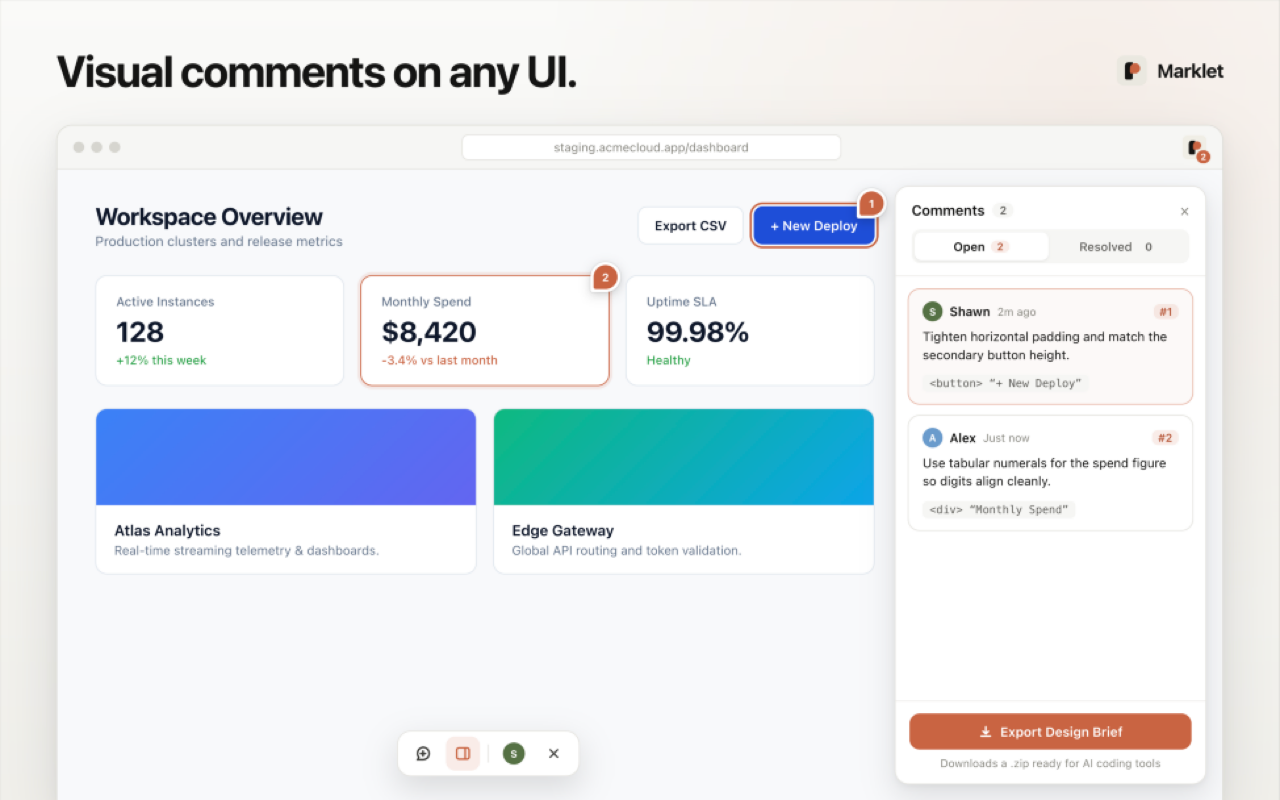
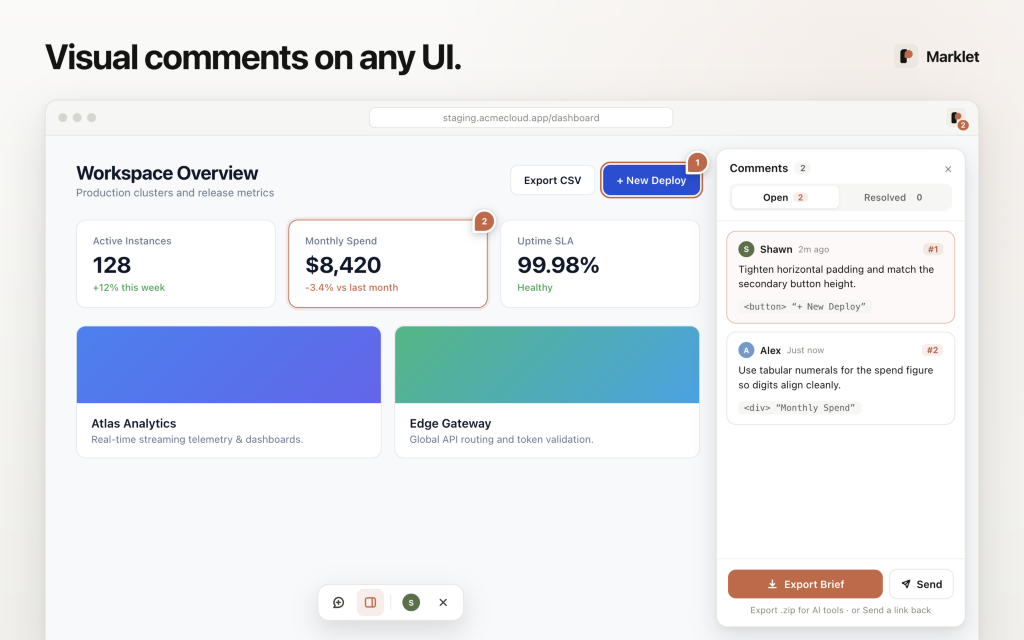
docs: refresh v0.2.0 showcase screenshots with Send & Microsoft/Google sign-in

diff --git a/demo/store-assets.html b/demo/store-assets.html
@@ -758,11 +758,17 @@
               </div>
             </div>
             <div class="m-sb-foot">
-              <div class="m-brief-btn">
-                <svg width="15" height="15" viewBox="0 0 16 16" fill="none" stroke="currentColor" stroke-width="1.8" stroke-linecap="round" stroke-linejoin="round"><path d="M8 2.75v7.5M5 7.5l3 3 3-3M3 12.75h10"/></svg>
-                <span>Export Design Brief</span>
+              <div style="display:flex;gap:8px;align-items:center;">
+                <div class="m-brief-btn" style="flex:1;">
+                  <svg width="15" height="15" viewBox="0 0 16 16" fill="none" stroke="currentColor" stroke-width="1.8" stroke-linecap="round" stroke-linejoin="round"><path d="M8 2.75v7.5M5 7.5l3 3 3-3M3 12.75h10"/></svg>
+                  <span>Export Brief</span>
+                </div>
+                <div style="height:38px;padding:0 13px;border-radius:10px;border:1px solid #e6e5e0;background:#fff;color:#141413;font-size:13px;font-weight:600;display:inline-flex;align-items:center;gap:6px;">
+                  <svg width="14" height="14" viewBox="0 0 16 16" fill="none" stroke="currentColor" stroke-width="1.6" stroke-linecap="round" stroke-linejoin="round"><path d="M13.5 2.5 7.25 8.75M13.5 2.5l-4 11-2.25-4.75L2.5 6.5l11-4Z"/></svg>
+                  <span>Send</span>
+                </div>
               </div>
-              <p class="m-brief-note">Downloads a .zip ready for AI coding tools</p>
+              <p class="m-brief-note">Export .zip for AI tools · or Send a link back</p>
             </div>
           </aside>
         </div>
@@ -841,14 +847,30 @@
               <path d="M56 54C56 41.85 65.85 32 78 32C90.15 32 100 41.85 100 54C100 66.15 90.15 76 78 76H62C58.69 76 56 73.31 56 70V54Z" fill="#C96442" />
             </svg>
             <strong style="font-size:15px;">Marklet</strong>
-            <span class="pm-ver">v0.1.0</span>
+            <span class="pm-ver">v0.2.0</span>
             <span style="flex:1"></span>
-            <span style="font-size:12px;color:#5e5d59;">Feedback ↗ &nbsp; ···</span>
+            <span style="font-size:13px;color:#5e5d59;display:inline-flex;align-items:center;gap:10px;">
+              <svg width="15" height="15" viewBox="0 0 16 16" fill="none" stroke="currentColor" stroke-width="1.5" stroke-linecap="round" stroke-linejoin="round"><circle cx="8" cy="8" r="6"/><path d="M6.25 6.35a1.85 1.85 0 0 1 3.55.7c0 1.15-1.8 1.4-1.8 2.45"/><circle cx="8" cy="11.65" r="0.6" fill="currentColor" stroke="none"/></svg>
+              <span>···</span>
+            </span>
           </div>
           <div class="pm-sec">
             <div class="pm-title">Workspace Overview · Acme Cloud</div>
             <div class="pm-host">https://staging.acmecloud.app</div>
             <div class="pm-btn">Start Review</div>
+          </div>
+          <div class="pm-sec" style="border-top:1px solid #f0efeb;padding-top:14px;padding-bottom:14px;">
+            <div style="display:grid;grid-template-columns:1fr 1fr;gap:8px;">
+              <div style="height:36px;border-radius:10px;border:1px solid #e6e5e0;display:inline-flex;align-items:center;justify-content:center;gap:7px;font-size:12.5px;font-weight:500;">
+                <svg width="13" height="13" viewBox="0 0 21 21" fill="none"><rect x="1" y="1" width="9" height="9" fill="#F25022"/><rect x="11" y="1" width="9" height="9" fill="#7FBA00"/><rect x="1" y="11" width="9" height="9" fill="#00A4EF"/><rect x="11" y="11" width="9" height="9" fill="#FFB900"/></svg>
+                <span>Microsoft</span>
+              </div>
+              <div style="height:36px;border-radius:10px;border:1px solid #e6e5e0;display:inline-flex;align-items:center;justify-content:center;gap:7px;font-size:12.5px;font-weight:500;">
+                <svg width="13" height="13" viewBox="0 0 18 18" fill="none"><path d="M17.64 9.2c0-.64-.06-1.25-.16-1.84H9v3.48h4.84a4.14 4.14 0 0 1-1.8 2.72v2.26h2.92c1.7-1.57 2.68-3.88 2.68-6.62Z" fill="#4285F4"/><path d="M9 18c2.43 0 4.47-.8 5.96-2.18l-2.92-2.26c-.8.54-1.83.86-3.04.86-2.34 0-4.33-1.58-5.04-3.71H.96v2.33A9 9 0 0 0 9 18Z" fill="#34A853"/><path d="M3.96 10.71A5.41 5.41 0 0 1 3.68 9c0-.59.1-1.17.28-1.71V4.96H.96A9 9 0 0 0 0 9c0 1.45.35 2.82.96 4.04l3-2.33Z" fill="#FBBC05"/><path d="M9 3.58c1.32 0 2.51.45 3.44 1.35l2.58-2.59C13.46.89 11.43 0 9 0A9 9 0 0 0 .96 4.96l3 2.33C4.67 5.16 6.66 3.58 9 3.58Z" fill="#EA4335"/></svg>
+                <span>Google</span>
+              </div>
+            </div>
+            <div style="margin-top:6px;font-size:11px;color:#87867f;text-align:center;">Sign in to sync your name &amp; avatar (optional)</div>
           </div>
           <div class="pm-foot">
             <span class="pm-dot"></span>
@@ -864,9 +886,12 @@
               <path d="M56 54C56 41.85 65.85 32 78 32C90.15 32 100 41.85 100 54C100 66.15 90.15 76 78 76H62C58.69 76 56 73.31 56 70V54Z" fill="#C96442" />
             </svg>
             <strong style="font-size:15px;">Marklet</strong>
-            <span class="pm-ver">v0.1.0</span>
+            <span class="pm-ver">v0.2.0</span>
             <span style="flex:1"></span>
-            <span style="font-size:12px;color:#a8a8a1;">Feedback ↗ &nbsp; ···</span>
+            <span style="font-size:13px;color:#a8a8a1;display:inline-flex;align-items:center;gap:10px;">
+              <svg width="15" height="15" viewBox="0 0 16 16" fill="none" stroke="currentColor" stroke-width="1.5" stroke-linecap="round" stroke-linejoin="round"><circle cx="8" cy="8" r="6"/><path d="M6.25 6.35a1.85 1.85 0 0 1 3.55.7c0 1.15-1.8 1.4-1.8 2.45"/><circle cx="8" cy="11.65" r="0.6" fill="currentColor" stroke="none"/></svg>
+              <span>···</span>
+            </span>
           </div>
           <div class="pm-sec">
             <div class="pm-title">Workspace Overview · Acme Cloud</div>
@@ -875,7 +900,19 @@
               <span class="pm-chip green"><span style="width:5px;height:5px;border-radius:50%;background:#7fb069;"></span>Reviewing</span>
               <span class="pm-chip open">2 open comments</span>
             </div>
-            <div class="pm-btn stop">Stop Review</div>
+            <div class="pm-btn" style="display:flex;align-items:center;justify-content:center;gap:6px;">
+              <svg width="14" height="14" viewBox="0 0 16 16" fill="none" stroke="currentColor" stroke-width="1.6" stroke-linecap="round" stroke-linejoin="round"><path d="M13.5 2.5 7.25 8.75M13.5 2.5l-4 11-2.25-4.75L2.5 6.5l11-4Z"/></svg>
+              <span>Send 2 comments</span>
+            </div>
+            <div class="pm-btn stop" style="margin-top:8px;height:36px;color:#a8a8a1;">Stop Review</div>
+          </div>
+          <div class="pm-sec" style="border-top:1px solid #2e2e2a;padding-top:12px;padding-bottom:12px;display:flex;align-items:center;gap:10px;">
+            <div style="width:30px;height:30px;border-radius:50%;background:#c96442;color:#fff;display:grid;place-items:center;font-size:12px;font-weight:700;">S</div>
+            <div style="flex:1;min-width:0;">
+              <div style="font-size:12.5px;font-weight:600;color:#f3f3ef;">Shawn Deng</div>
+              <div style="font-size:11px;color:#7c7c76;">shawn@acmecloud.com</div>
+            </div>
+            <span style="padding:4px 9px;border-radius:7px;border:1px solid #383834;background:#2a2a27;color:#a8a8a1;font-size:11px;">Sign out</span>
           </div>
           <div class="pm-foot">
             <span class="pm-dot on"></span>
@@ -903,5 +940,17 @@
         <p class="promo-sub">Visual comments for UI.</p>
       </div>
     </div>
+    <script>
+      const only = new URLSearchParams(location.search).get('only');
+      if (only) {
+        document.body.style.padding = '0';
+        document.body.style.gap = '0';
+        document.body.style.background = 'transparent';
+        document.querySelectorAll('.frame').forEach((el) => {
+          if (el.id === only) el.style.zoom = '1';
+          else el.style.display = 'none';
+        });
+      }
+    </script>
   </body>
 </html>
